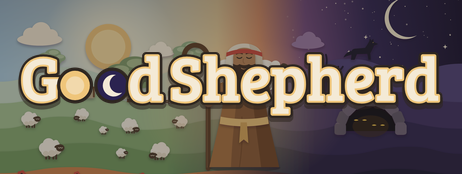
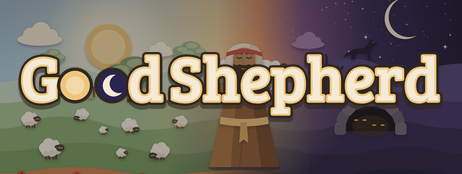
Shepherd holds only the lamb; the crook and lamp move to the title
He had a third arm on the staff while both hands held the lamb. The staff, the lamp and that
arm are gone from the figure; the capsules now use the logo with its crook and lamp.

Claude-Session: https://claude.ai/code/session_01VpcujKa2SduHoRcPjGQsic

Changed region(s): [[0.4242, 0.6034, 0.4545, 0.977], [0.3939, 0.2299, 0.4545, 0.3161]]

diff --git a/tools/scene.py b/tools/scene.py
@@ -99,23 +99,14 @@ def wolf(x, y, s=1.0, col="#17122a"):
 
 def shepherd(x, y, s=1.0):
     """The shepherd, feet at (x, y): robe and sash, headcloth, a kind face, the lamb across
-    his shoulders with its legs held at his chest, the crook in his other hand, a lamp on it."""
+    his shoulders, its legs held at his chest in both hands. (The crook and its lamp belong
+    to the title lettering, not to him: both his hands are full.)"""
     robe, robe_d, robe_l = "#8a5a36", "#6f4428", "#a8713f"
     skin, beard, cloth = "#b98458", "#3d2a1e", "#efe6d2"
     P = lambda dx, dy: f"{x+dx*s:.1f},{y+dy*s:.1f}"
     out = []
     # ground shadow
     out.append(f'<ellipse cx="{x}" cy="{y+6*s}" rx="{300*s}" ry="{34*s}" fill="#1c1420" opacity=".35"/>')
-    # the crook, behind his hand, with the lamp
-    sx, top = x - 300 * s, y - 1010 * s
-    hook = f"M{sx},{y+10*s} L{sx},{top+120*s} C{sx},{top-40*s} {sx-200*s},{top-40*s} {sx-200*s},{top+96*s} C{sx-200*s},{top+132*s} {sx-176*s},{top+150*s} {sx-150*s},{top+140*s}"
-    out.append(f'<g filter="url(#paper)"><path d="{hook}" fill="none" stroke="#5a3d26" stroke-width="{40*s}" stroke-linecap="round"/><path d="M{sx-8*s},{y} L{sx-8*s},{top+130*s}" stroke="#7a573a" stroke-width="{9*s}" stroke-linecap="round" opacity=".8"/></g>')
-    lx, ly = sx - 200 * s, top + 290 * s
-    out.append(f'<line x1="{lx}" y1="{top+120*s}" x2="{lx}" y2="{ly-10*s}" stroke="{INK}" stroke-width="{7*s}"/>'
-               f'<circle cx="{lx}" cy="{ly}" r="{210*s}" fill="url(#lampglow)"/>'
-               f'<g filter="url(#paper)"><path d="M{lx-74*s},{ly} L{lx+62*s},{ly} L{lx+104*s},{ly-20*s} L{lx+92*s},{ly+12*s} Q{lx+56*s},{ly+62*s} {lx-6*s},{ly+62*s} Q{lx-64*s},{ly+58*s} {lx-74*s},{ly}z" fill="#a4552c"/>'
-               f'<path d="M{lx-50*s},{ly+14*s} L{lx+54*s},{ly+14*s}" stroke="#c97a48" stroke-width="{9*s}" stroke-linecap="round"/></g>'
-               f'<path d="M{lx+98*s},{ly-22*s} q{-30*s},{-38*s} {4*s},{-86*s} q{30*s},{46*s} {-4*s},{86*s}z" fill="{GOLD}"/><path d="M{lx+98*s},{ly-26*s} q{-14*s},{-20*s} {2*s},{-46*s} q{14*s},{24*s} {-2*s},{46*s}z" fill="{PAPER}"/>')
     # robe: a broad bell, a lighter panel on the day side, darker folds on the night side
     out.append(f'<g filter="url(#paper)"><path d="M{P(-150,-690)} C{P(-190,-400)} {P(-260,-150)} {P(-290,0)} L{P(290,0)} C{P(260,-150)} {P(190,-400)} {P(150,-690)} Z" fill="{robe}"/>'
                f'<path d="M{P(-150,-690)} C{P(-190,-400)} {P(-260,-150)} {P(-290,0)} L{P(-110,0)} C{P(-100,-260)} {P(-70,-480)} {P(-50,-690)} Z" fill="{robe_l}"/>'
@@ -155,8 +146,6 @@ def shepherd(x, y, s=1.0):
                f'<path d="M{P(-66,-940)} q{26*s},{-14*s} {50*s},{-2*s} M{P(16,-942)} q{26*s},{-12*s} {50*s},{2*s}" stroke="{beard}" stroke-width="{9*s}" fill="none" stroke-linecap="round"/>'
                f'<path d="M{P(-6,-900)} q{-10*s},{30*s} {8*s},{38*s}" stroke="#9a6a44" stroke-width="{6*s}" fill="none" stroke-linecap="round"/>')
     out.append(f'<path d="M{P(-148,-952)} Q{P(0,-1010)} {P(148,-952)} L{P(150,-918)} Q{P(0,-976)} {P(-150,-918)} Z" fill="#c9483c"/>')
-    # the hand on the crook
-    out.append(f'<g filter="url(#paper)"><path d="M{P(-196,-690)} Q{P(-330,-640)} {P(-330,-560)} L{P(-270,-540)} Q{P(-250,-610)} {P(-160,-640)} Z" fill="{robe_l}"/><ellipse cx="{sx+4*s}" cy="{y-548*s}" rx="{44*s}" ry="{50*s}" fill="{skin}"/></g>')
     return "".join(out)
 
 
@@ -202,7 +191,7 @@ def scene():
     d.append(sheep(250, 1560, 1.0, True) + sheep(680, 1520, 0.8, False, True) + sheep(1080, 1610, 0.95, True, True) + sheep(1500, 1580, 0.8, False) + sheep(860, 1650, 0.5, True, False, True))
     d.append(hill(4, [(0, 1830), (700, 1760), (1500, 1850), (2100, 1780), (2800, 1860), (3400, 1790), (W, 1850)]))
     d.append(sheep(420, 1800, 1.3, True) + sheep(1330, 1820, 1.1, False, True) + sheep(1010, 1840, 0.62, True, False, True))
-    # the lamp's light spilling toward the night
+    # the last warm light of the day around him, spilling toward the night
     d.append(f'<ellipse cx="2020" cy="1500" rx="900" ry="620" fill="url(#lampspill)"/>')
     d.append(shepherd(2030, 1960, 1.0))
     # foreground: warm earth by day, cold by night, flowers and grass

diff --git a/tools/brand.py b/tools/brand.py
@@ -149,7 +149,7 @@ def main():
     for name, svg in [("logo-stacked.svg", logo_stacked()), ("logo-one-line.svg", logo_line()), ("mark-circle.svg", mark(1024, "circle")), ("mark-app.svg", mark(1024, "squircle"))]:
         open(os.path.join(logo_dir, name), "w").write(svg)
     jobs = [(logo_stacked(), 1280, 720, os.path.join(B, "steam/library-logo-1280x720.png")),
-            (logo_stacked(tagline=False, with_crook=False), 1280, 720, os.path.join(tmp, "stack.png")),
+            (logo_stacked(tagline=False), 1280, 720, os.path.join(tmp, "stack.png")),   # the crook and lamp live in the title
             (logo_stacked(tagline=False), 1280, 720, os.path.join(logo_dir, "logo-stacked-1280x720.png")),
             (logo_line(with_crook=False), 1500, 330, os.path.join(tmp, "line.png")),
             (logo_line(), 1500, 330, os.path.join(logo_dir, "logo-one-line-1500x330.png")),
@@ -194,15 +194,15 @@ def compose(tmp, logo_dir):
     mark_img = Image.open(os.path.join(tmp, "mark.png")).convert("RGBA")
     # name, size, focus x, focus y (1 = keep the ground, trim sky), which logo, logo box (x, y, w, h as fractions)
     plan = [
-        ("goodshepherd-key-art-1920x1080.png", (1920, 1080), 0.50, 1.0, stack, (0.035, 0.05, 0.36, 0.34)),
-        ("steam/main-capsule-1232x706.png", (1232, 706), 0.50, 1.0, stack, (0.03, 0.05, 0.38, 0.36)),
-        ("steam/header-capsule-920x430.png", (920, 430), 0.50, 0.93, stack, (0.03, 0.06, 0.40, 0.56)),
+        ("goodshepherd-key-art-1920x1080.png", (1920, 1080), 0.50, 1.0, stack, (0.03, 0.04, 0.42, 0.38)),
+        ("steam/main-capsule-1232x706.png", (1232, 706), 0.50, 1.0, stack, (0.025, 0.04, 0.44, 0.40)),
+        ("steam/header-capsule-920x430.png", (920, 430), 0.50, 0.93, stack, (0.02, 0.05, 0.45, 0.60)),
         ("steam/small-capsule-462x174.png", (462, 174), 0.50, 0.80, line, (0.04, 0.16, 0.92, 0.68)),
         ("steam/vertical-capsule-748x896.png", (748, 896), 0.545, 1.0, stack, (0.07, 0.03, 0.86, 0.33)),
         ("steam/library-capsule-600x900.png", (600, 900), 0.55, 1.0, stack, (0.06, 0.035, 0.88, 0.30)),
-        ("steam/package-header-1414x464.png", (1414, 464), 0.50, 0.88, stack, (0.03, 0.07, 0.34, 0.62)),
-        ("social/x-bluesky-header-1500x500.png", (1500, 500), 0.50, 0.88, stack, (0.04, 0.08, 0.32, 0.62)),
-        ("social/youtube-banner-2560x1440.png", (2560, 1440), 0.50, 1.0, stack, (0.205, 0.37, 0.24, 0.24)),
+        ("steam/package-header-1414x464.png", (1414, 464), 0.50, 0.88, stack, (0.02, 0.06, 0.38, 0.68)),
+        ("social/x-bluesky-header-1500x500.png", (1500, 500), 0.50, 0.88, stack, (0.03, 0.07, 0.36, 0.68)),
+        ("social/youtube-banner-2560x1440.png", (2560, 1440), 0.50, 1.0, stack, (0.20, 0.36, 0.27, 0.27)),
         ("social/portrait-post-1080x1350.png", (1080, 1350), 0.545, 1.0, stack, (0.08, 0.035, 0.84, 0.30)),
     ]
     for name, (w, h), fx, fy, logo, (lx, ly, lw, lh) in plan:
